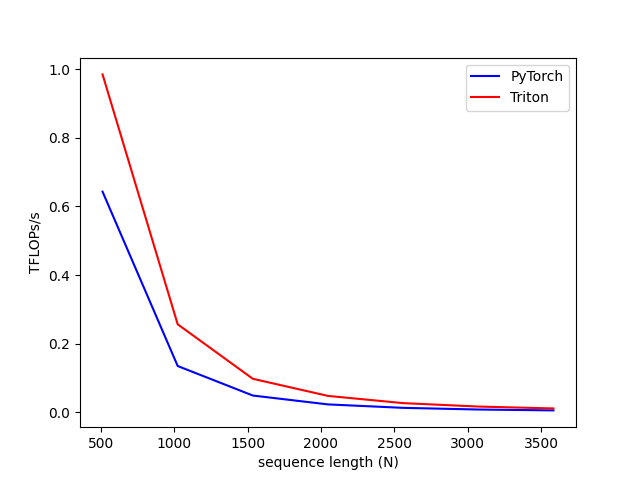
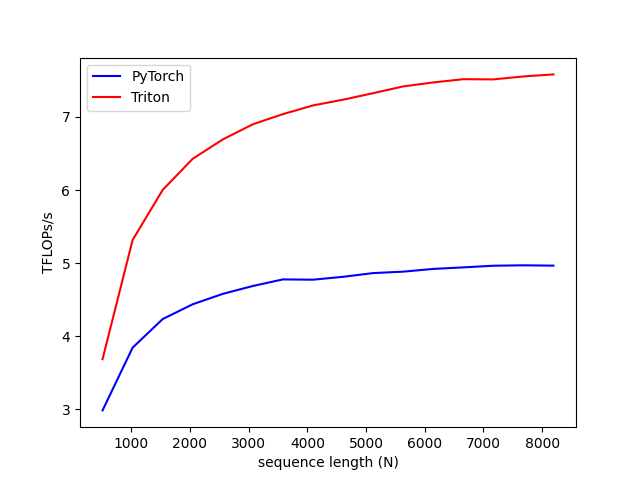
flash attention benchmarks are in: i'm fucking siiick dude

diff --git a/tritongrad/kernels/flash_attention.py b/tritongrad/kernels/flash_attention.py
@@ -115,12 +115,14 @@ def _attn_fwd_inner(
             {"BLOCK_SIZE_QO": BLOCK_SIZE_QO, "BLOCK_SIZE_KV": BLOCK_SIZE_KV},
             num_stages=num_stages, num_warps=num_warps,
         )
-        for BLOCK_SIZE_QO in [32]
-        for BLOCK_SIZE_KV in [32]
-        for num_stages in ([1, 3, 5])
-        for num_warps in [2, 4, 8]
+        for BLOCK_SIZE_QO in [16, 32, 64, 128]
+        for BLOCK_SIZE_KV in [16, 32, 64, 128]
+        for num_stages in [1, 3, 5, 7]
+        for num_warps in [2, 4, 8, 16]
+        if BLOCK_SIZE_QO == BLOCK_SIZE_KV # TODO they should only be one hyperparameter then
     ],
     key=["N", "D"], # auto-tune will re-run every time either of these values changes in a new input
+    # TODO is there a way to make it only change when N surpasses a new multiple of BLOCK_SIZE?
 )
 @triton.jit
 def attn_fwd(
@@ -452,13 +454,14 @@ def _attn_backward_Q(
     [
         triton.Config({"BLOCK_SIZE_MACRO": BLOCK_SIZE_MACRO, "BLOCK_SIZE_MICRO": BLOCK_SIZE_MICRO},
                         num_stages=num_stages, num_warps=num_warps,)
-        for BLOCK_SIZE_MICRO in [16, 32]
-        for BLOCK_SIZE_MACRO in [32, 64]
-        for num_stages in [1, 3, 5]
-        for num_warps in [2, 4, 8]
+        for BLOCK_SIZE_MICRO in [16, 32, 64]
+        for BLOCK_SIZE_MACRO in [32, 64, 128]
+        for num_stages in [1, 3, 5, 7]
+        for num_warps in [2, 4, 8, 16]
         if BLOCK_SIZE_MACRO > BLOCK_SIZE_MICRO # could do >= but i wanna get mileage out of the loop code we wrote
     ],
     key=["N", "D"], # auto-tune will re-run every time either of these values changes in a new input
+    # TODO is there a way to make it only change when N surpasses a new multiple of BLOCK_SIZE?
 )
 @triton.jit
 def attn_backward(

diff --git a/tritongrad/benchmarking.py b/tritongrad/benchmarking.py
@@ -923,7 +923,7 @@ def generate_flashattention_configs(ops):
             configs.append(
                 triton.testing.Benchmark(
                     x_names=['N'],
-                    x_vals=[512 * i for i in range(1, 8, 1)],
+                    x_vals=[512 * i for i in range(1, 17, 1)],
                     line_arg='provider',
                     line_vals=['torch', 'triton'],
                     line_names=['PyTorch', 'Triton'],
@@ -957,15 +957,12 @@ def benchmark_flashattention(N, provider, op, mode, device=DEVICE):
         dO = torch.randn_like(O)
         fn = lambda: O.backward(dO, retain_graph=True)
     
-    # TODO these calcs are incorrect, just naively copied from matmul
-    # for flash attention we'll measure TFLOPs instead of GB/s since flops are the limiting factor
     ms = triton.testing.do_bench(fn)
-    perf = (2 if mode == "fwd" else 4) * B * H * N * Dh * 1e-12 / (ms * 1e-3)
-    # 2 or 4 = number of operations per entry (mul and add for fwd & another set for two gradients during bwd)
-    # B * H * N * Dh = number of elements
-    # 1e-12 converts flops to Teraflops
-    # ms * 1e-3 converts milliseconds to seconds
-    return perf / (ms * 1e-3)
+    flops_per_matmul = 2.0 * B * H * N * N * Dh
+    total_flops = 2 * flops_per_matmul * 0.5 # 0.5 for causal
+    if mode == "bwd":
+        total_flops *= 2.5  # 2.0(bwd) + 0.5(recompute)
+    return total_flops * 1e-12 / (ms * 1e-3)
 
 
 if __name__ == "__main__":
